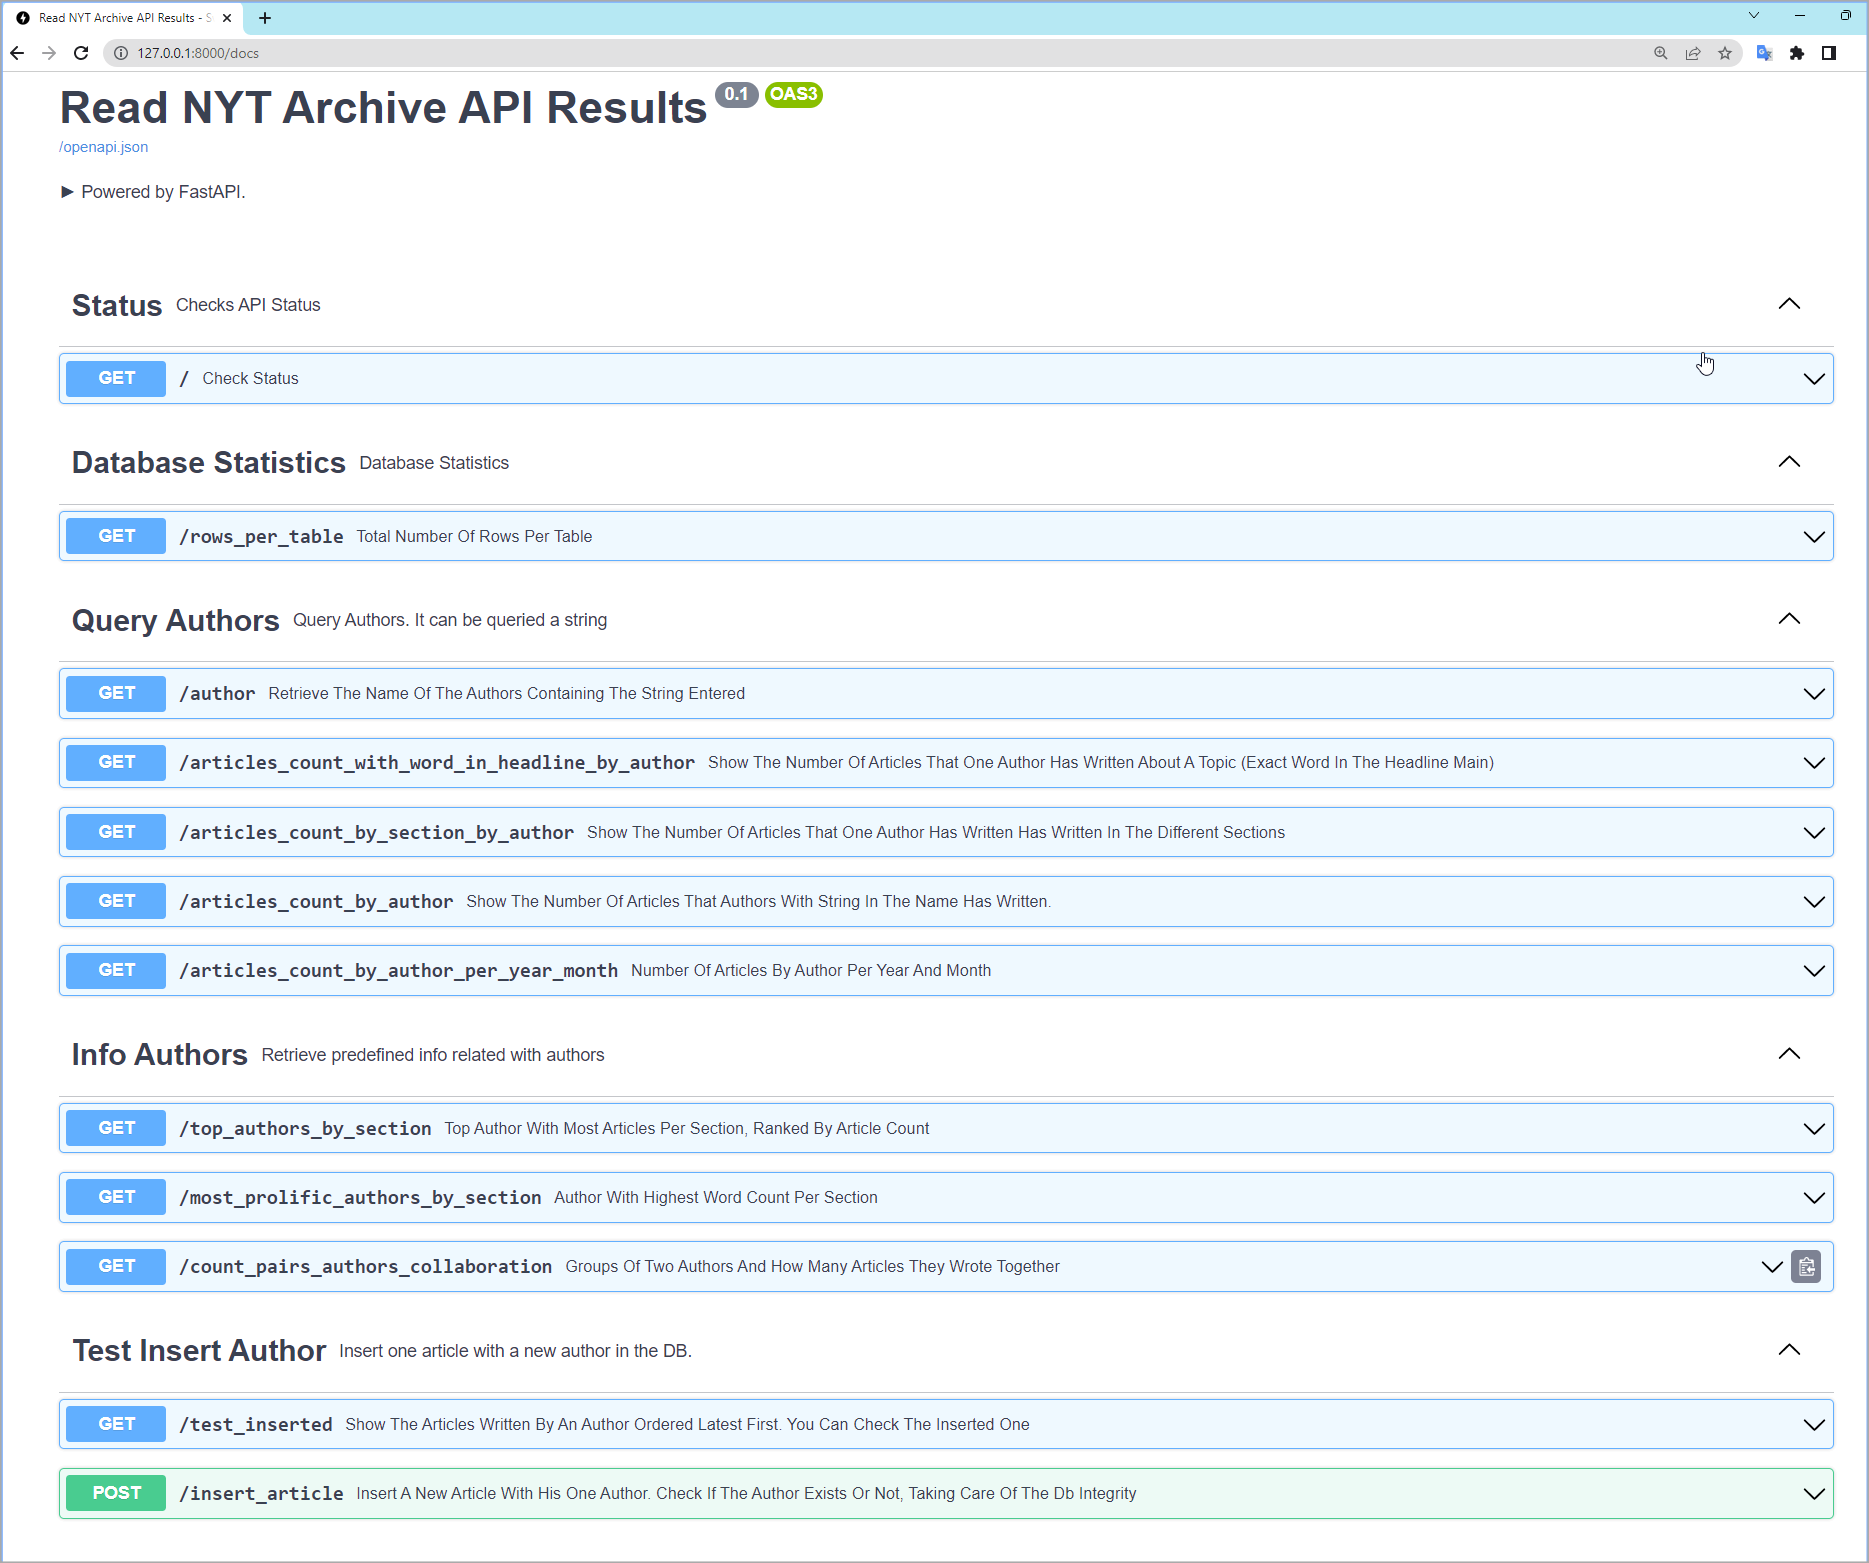
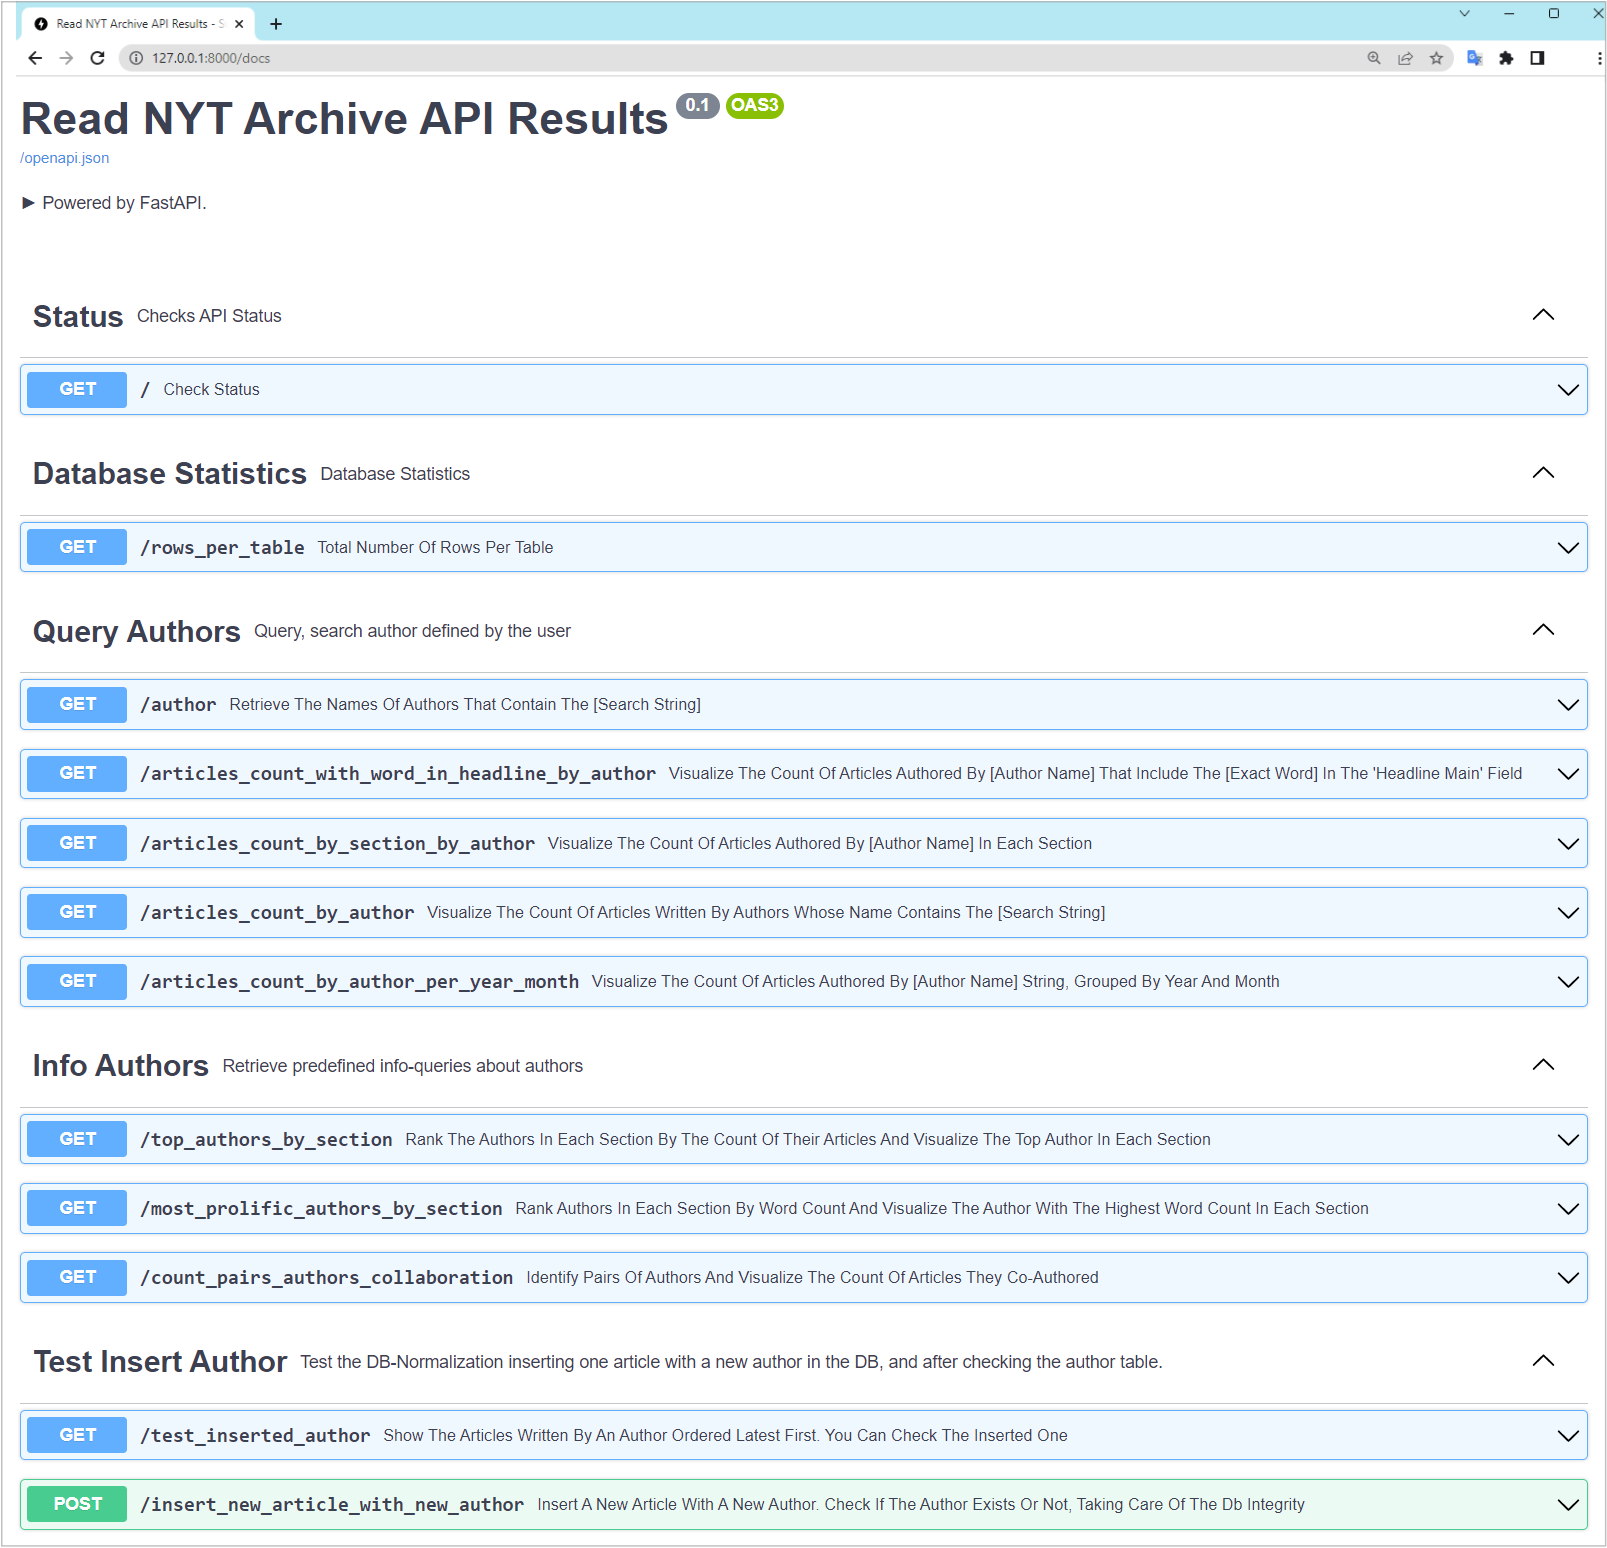
main

Changed region(s): [[0.0, 0.0, 1.0, 1.0], [0.9334, 0.6822, 0.9645, 0.7132]]

diff --git a/0_api/main.py b/0_api/main.py
@@ -28,7 +28,7 @@ app = FastAPI(
                                 },
                                 {
                                     'name': 'Test Insert Author',
-                                    'description': 'Test the DB-Normalization inserting one article with a new author in the DB, and after checking the author table.'
+                                    'description': 'Test the DB-Normalization inserting one article with a new author in the DB, and after checking the author table'
                                 }
                             ]
 )
@@ -50,9 +50,9 @@ async def database_disconnect():
 # ============================================
 #  STATUS
 # ============================================    
-# Check that the api is working
+# Check thif if the api is working
 @app.get("/",
-        name = "Check status",
+        name = "Check thif if the api is working",
         tags = ['Status']        
         )
 async def get_index():

diff --git a/README.md b/README.md
@@ -170,9 +170,30 @@ To do the normalization a "composite-table" `article_author`  was created, and a
 <br>
 
 ## 4. Data Consumption - FastAPI
-At this moment, the API consists of 5 api-endpoints that are used to "check" the normalization of the author's data in the database.
+At this moment, the API consists of 12 api-endpoints that are used to "check" the normalization of the author's data in the database.
 For this reason, all the endpoints are concentrated on querying the author and inserting one article with the author(s), and then to check if it was succesfully created.  
 \* *More endpoints will be added in the future*
+
+### API endpoints
+
+1. **Status** Checks API Status
+    - **/** Check thif if the api is working.
+2. **Database Statistics** Database Statistics
+    - **/rows_per_table** Total number of rows per table.
+3. **Query Authors** Query, search author defined by the user
+    - **/author** Retrieve the names of authors that contain the [search string].
+    - **/articles_count_with_word_in_headline_by_author** Visualize the count of articles authored by [author name] that include the [exact word] in the 'headline_main' field.
+    - **/articles_count_by_section_by_author** Visualize the count of articles authored by [author name] in each section.
+    - **/articles_count_by_author** Visualize the count of articles written by authors whose name contains the [search string].
+    - **/articles_count_by_author_per_year_month** Visualize the count of articles authored by [author name] string, grouped by year and month.
+4. **Info Authors** Retrieve predefined info-queries about authors
+    - **top_authors_by_section** Rank the authors in each section by the count of their articles and visualize the top author in each section.
+    - **/most_prolific_authors_by_section** Rank authors in each section by word count and visualize the author with the highest word count in each section.
+    - **/count_pairs_authors_collaboration** Identify pairs of authors and visualize the count of articles they co-authored.
+5. **Test Insert Author** Test the DB-Normalization inserting one article with a new author in the DB, and after checking the author table
+    - **test_inserted_author** Show the articles written by an author ordered latest first. You can check the inserted one.
+    - **/insert_new_article_with_new_author** Insert a new article with a new author. Check if the author exists or not, taking care of the DB integrity.
+
 
 <kbd>
   <img src="images/fastapi_endpoints.png">
